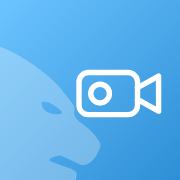
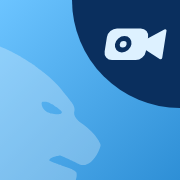
Icône du Studio : coin foncé en haut à droite, plus de symbole blanc au centre (#11)
Choix de Benjamin du 24/11 (DECISIONS 2.26, kit 8 des outils) : dégradé bleu et léopard en filigrane inchangés ;
quart de disque bleu nuit en haut à droite, caméra pleine dans la teinte pâle. Sous 48 px : tuile foncée, symbole
pâle seul.

Claude-Session: https://claude.ai/code/session_01K397HPUU5c4FYkoviKbqvZ

diff --git a/index.html b/index.html
@@ -6,9 +6,9 @@
 <meta name="viewport" content="width=device-width, initial-scale=1">
 <meta name="robots" content="noindex, nofollow">
 <title>Le Studio</title>
[6 lines of base64/hex data omitted]
 <meta name="theme-color" content="#0F2233">
 <meta name="apple-mobile-web-app-title" content="Le Studio">
 <link rel="preconnect" href="https://fonts.googleapis.com">

diff --git a/CLAUDE.md b/CLAUDE.md
@@ -37,6 +37,16 @@ briques, et une ligne au journal).
 Les PR se fusionnent seules quand tout est vert (accord de Benjamin du 15/11) : ne demande jamais à Benjamin de fusionner
 ni de déployer.
 
+## Icône (famille des outils du QG)
+
+Depuis le 24/11 (choix de Benjamin, « coin foncé », DECISIONS 2.26 ; fil « Repenser les icônes des applis reliées ») :
+tuile en dégradé bleu `#6CC4FF` → `#2E8FD6` et léopard en filigrane inchangés (2.25) ; en haut à droite, un quart de
+disque bleu nuit `#0A2F5E` avec la caméra pleine dans la teinte pâle `#DDF1FF` ; plus de symbole blanc au centre. Sous
+48 px (16, 32) : tuile `#0A2F5E`, symbole pâle seul. Fichiers : `icone-studio-*.png`, et les trois icônes écrites en
+toutes lettres dans l'en-tête d'`index.html` (16, 32, 180 ; le logo de l'en-tête reprend la 180). On ne les retouche pas
+à la main : elles sortent du kit `identite/icones-qg-secu/archives/outils-coin-fonce/` des fichiers du projet « QG du
+Centre » (`kit8.py`), commun à La caisse, à La machine, à La forme et à La route. L'icône du QG, elle, ne change pas.
+
 ## Relation avec le QG : une demande, les deux côtés
 
 Règle commune des applis reliées (demandée par Benjamin le 20/11, DECISIONS 3.19 ; fiche de référence :
